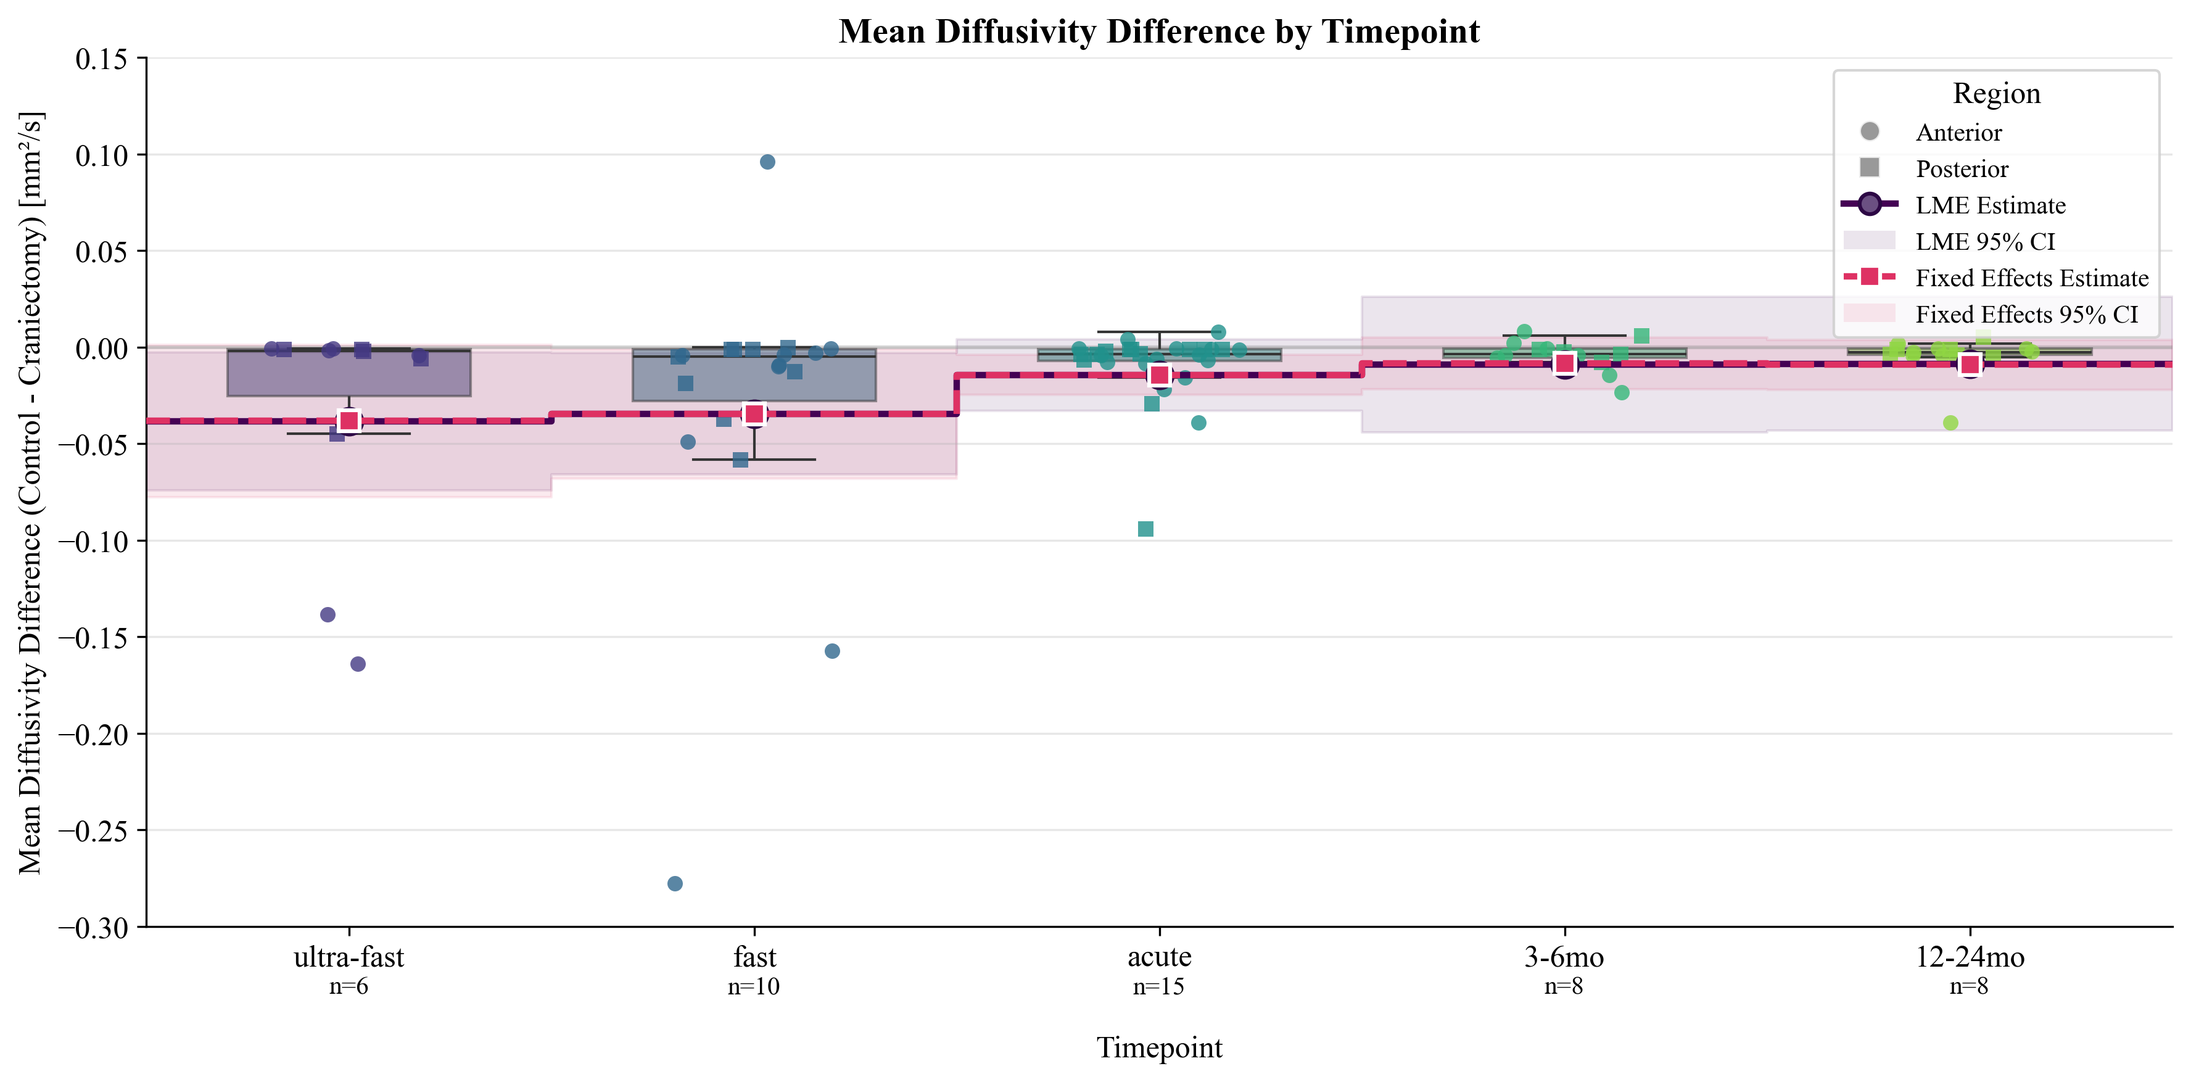
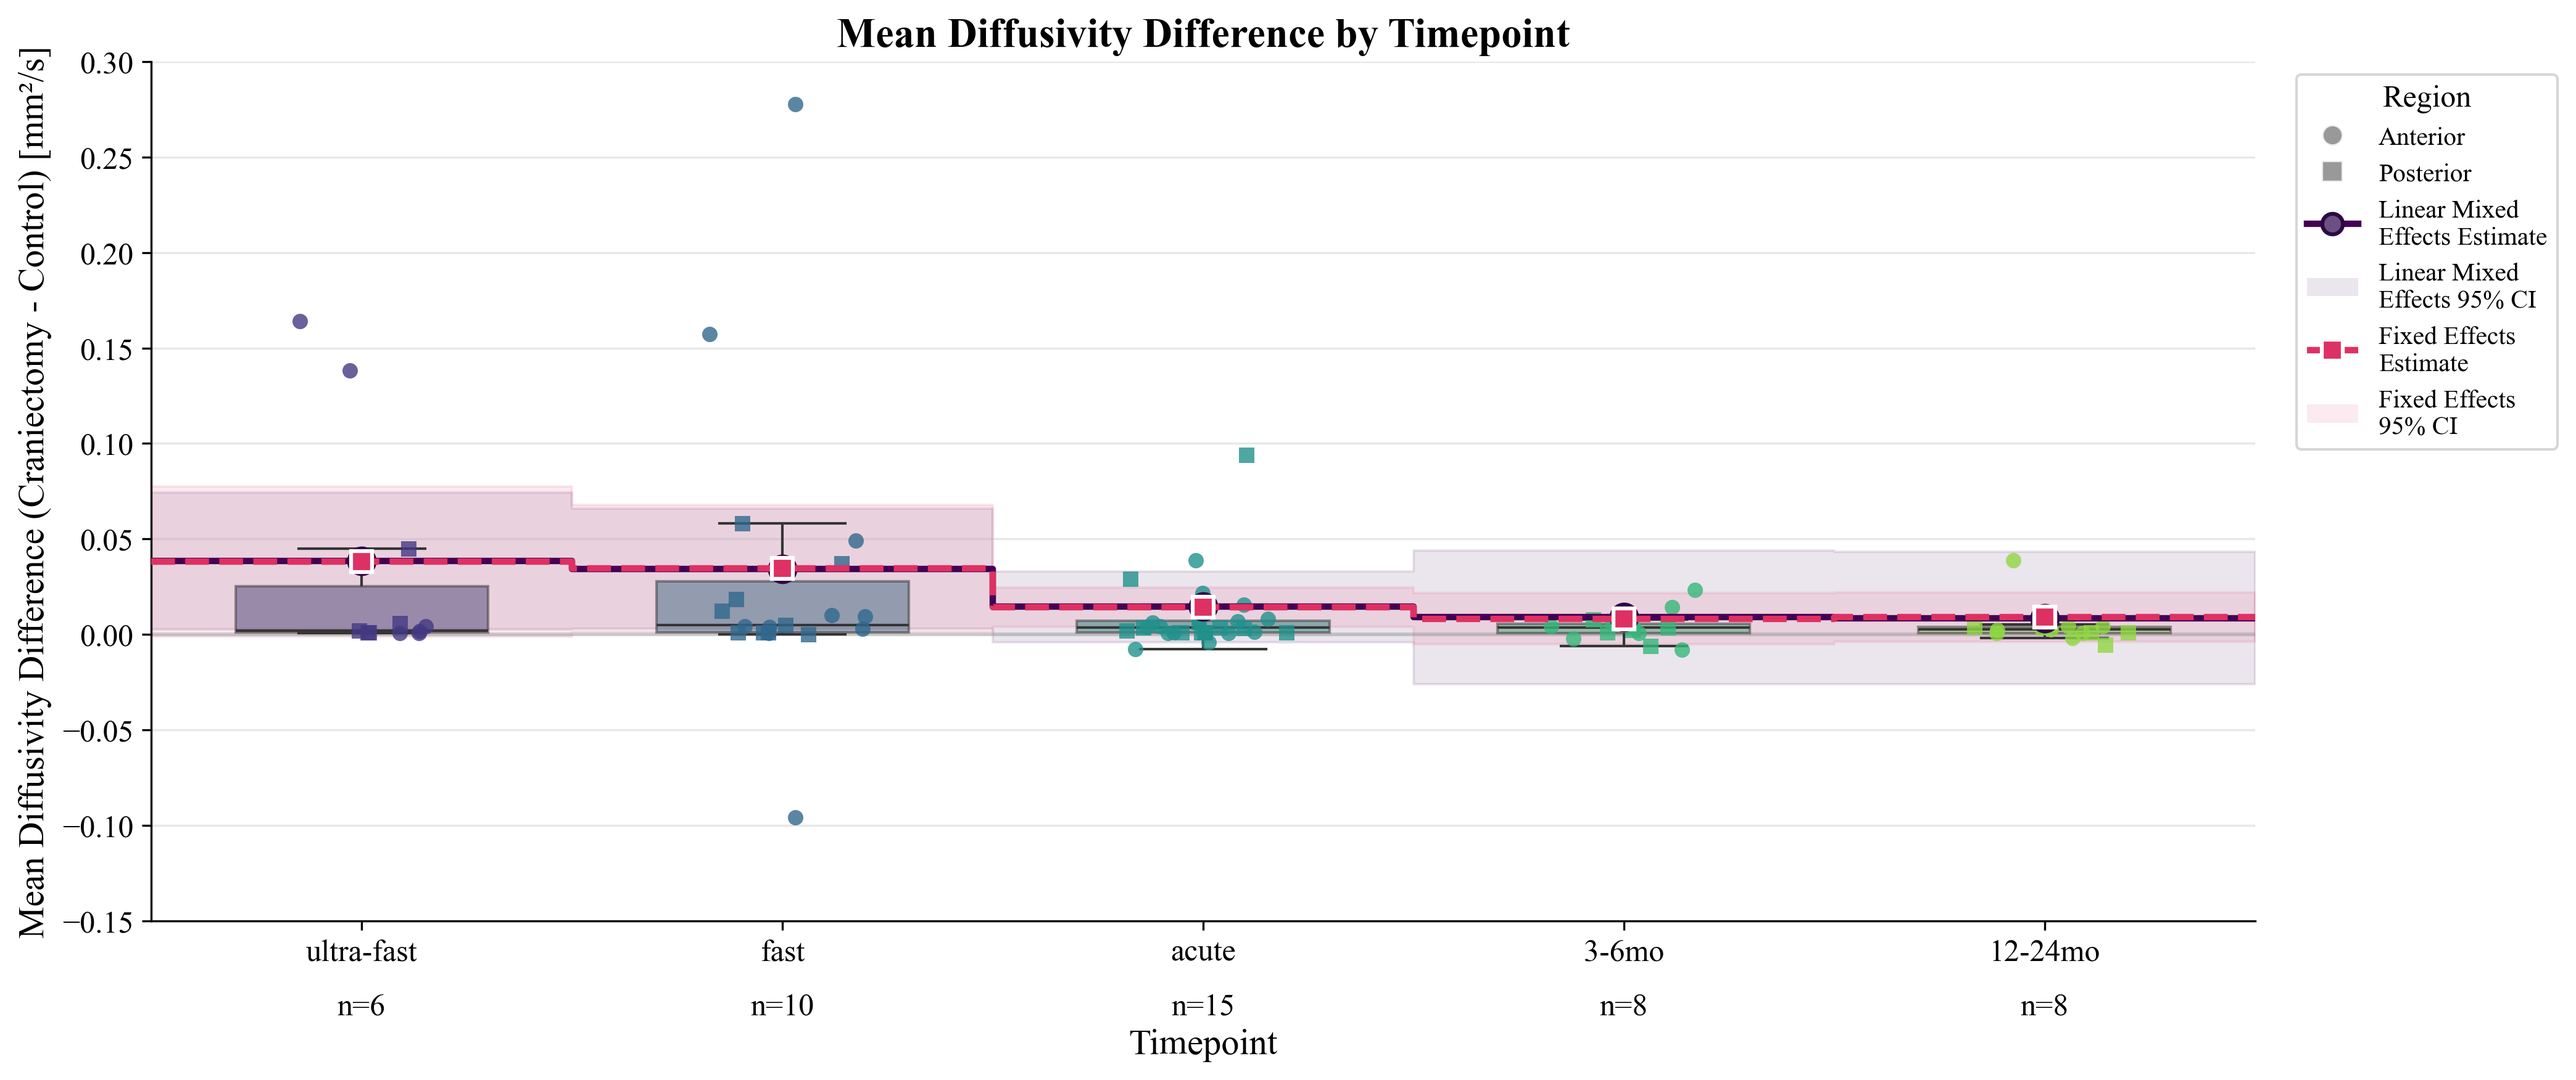
md box plots

diff --git a/DTI_Processing_Scripts/dti_results_plotting_main.py b/DTI_Processing_Scripts/dti_results_plotting_main.py
@@ -4237,9 +4237,10 @@ if __name__ == '__main__':
     print_fixed_effects_summary_precise(result_fixed_post,precision=6)
     # sys.exit()
 
-    # create_timepoint_boxplot_LME_dti(df=wm_data_roi_567_combi, parameter='md', result=result, fixed_effects_result=result_fixed)
-    # create_timepoint_boxplot_LME_dti(df=wm_data_roi_567_combi, parameter='md', result=result, fixed_effects_result=result_fixed, fixed_only=True)
-    ##### PLOT FIXED EFFECT ON BOX PLOT
+    create_timepoint_boxplot_LME_dti(df=wm_data_roi_567_combi, parameter='md', result=result, fixed_effects_result=result_fixed)
+    create_timepoint_boxplot_LME_dti(df=wm_data_roi_567_combi, parameter='md', result=result, fixed_effects_result=result_fixed, fixed_only=True)
+    sys.exit()
+    #### PLOT FIXED EFFECT ON BOX PLOT
 
     ### COMBINE RESULTS wm_data_roi_567 with area data
     area_df=pd.read_csv('Image_Processing_Scripts/area_data.csv')
